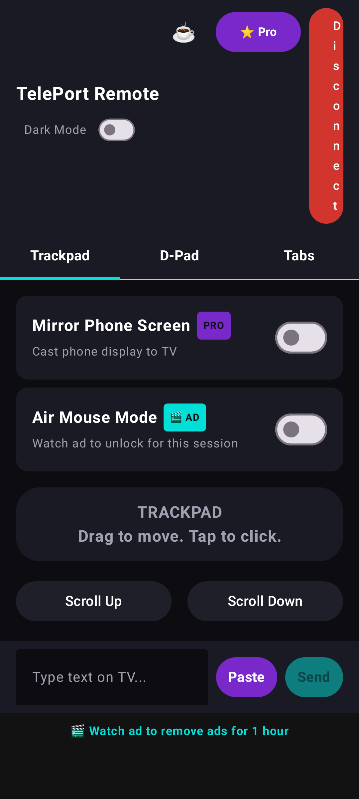
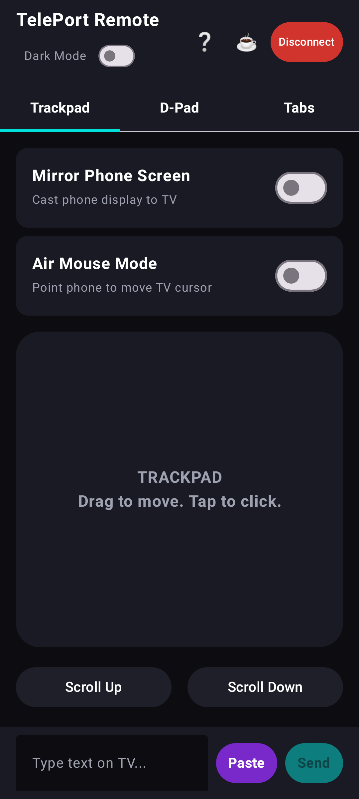
Marketing: ASO pass on the TelePort Play listing (POR-93) (#256)
* media(store): recapture Play Store screenshots, fix trackpad badges, add feature graphic (POR-176)

- Regenerate the live docs/screenshots/*.png set from current source: the
  checked-in trackpad shot was stale and still showed the PRO/AD/paywall UI,
  even though ENABLE_ADVERTISEMENTS and ENABLE_PAID_SUBSCRIPTIONS are both
  false in FeatureFlags.kt (free users get everything unlocked, no ads).
- Add docs/screenshots/play_store/: a captioned, ordered set (via the
  existing Robolectric ScreenshotEngine "store asset" tests) that leads with
  the browsing/remote-control experience instead of the bare QR pairing
  screen, which now closes out the sequence.
- Fix ScreenshotEngine.kt caption word-wrap: long descriptions were drawn as
  a single line and ran off the canvas edge (both the app test-source copy
  and the screenshot-framework template copy).
- Add scripts/generate_feature_graphic.py to compose the missing 1024x500
  Play Store feature graphic from assets/logo.png, since logo.png/banner.png
  are both 1024x1024 icon-shaped art and unusable in that slot as-is.

Draft only — not uploaded to Play Console. See docs/screenshots/play_store/README.md.

* marketing(store): sync approved Play listing copy to app-metadata.json (POR-93)

Title, short description, and full description reflect the ASO copy
approved via board approval 9e2177b7-dbf8-41fd-810f-187b0c07a246. Drops
the "no analytics" claim, which is inaccurate given Firebase
[…]

diff --git a/app/src/test/java/com/teleport/app/ExhaustiveScreenshotsTest.kt b/app/src/test/java/com/teleport/app/ExhaustiveScreenshotsTest.kt
@@ -223,8 +223,8 @@ class ExhaustiveScreenshotsTest {
             device = ScreenshotEngine.DeviceConfig.Tv,
             isDarkMode = true,
             decoration = ScreenshotEngine.DecorationConfig(
-                title = "Polished TV Pairing Dashboard",
-                description = "Scan the QR code or type the local URL to instantly pair your phone remote."
+                title = "Pair Once, Control Instantly",
+                description = "Scan the QR code or enter your TV's IP address to link your phone in seconds."
             )
         ) {
             TvPairingScreen(
@@ -268,8 +268,8 @@ class ExhaustiveScreenshotsTest {
             device = ScreenshotEngine.DeviceConfig.Phone,
             isDarkMode = true,
             decoration = ScreenshotEngine.DecorationConfig(
-                title = "Seamless Precision Trackpad",
-                description = "Control your Android TV cursor using standard swipe inputs or gyroscopic sensors."
+                title = "Trackpad & Air Mouse Remote",
+                description = "Swipe like a trackpad, or wave your phone like a laser pointer to move the TV cursor."
             )
         ) {
             ControllerScreen(
@@ -329,8 +329,8 @@ class ExhaustiveScreenshotsTest {
             device = ScreenshotEngine.DeviceConfig.Phone,
             isDarkMode = true,
             decoration = ScreenshotEngine.DecorationConfig(
-                title = "Cast Media Direct to TV",
-                description = "Launch search queries or cast detected video links to play in TV's video player."
+                title = "Browse Multiple Tabs on Your TV",
+                description = "Open tabs from your phone, switch between them, and cast videos straight to the big screen."
             )
         ) {
             TabsManagerTab(connectionManager, mockTvState)

diff --git a/app/src/test/java/com/teleport/app/ScreenshotEngine.kt b/app/src/test/java/com/teleport/app/ScreenshotEngine.kt
@@ -187,7 +187,14 @@ object ScreenshotEngine {
 
         val textYOffset = if (device.type == DeviceType.TV) 120f else 200f
         canvas.drawText(decoration.title, (canvasWidth / 2).toFloat(), textYOffset, titlePaint)
-        canvas.drawText(decoration.description, (canvasWidth / 2).toFloat(), textYOffset + (if (device.type == DeviceType.TV) 50f else 80f), descPaint)
+
+        // Wrap the description so it never runs off the edge of the canvas.
+        val descMaxWidth = canvasWidth - 160f
+        val descLineHeight = if (device.type == DeviceType.TV) 36f else 50f
+        val descStartY = textYOffset + (if (device.type == DeviceType.TV) 50f else 80f)
+        wrapText(decoration.description, descPaint, descMaxWidth).forEachIndexed { index, line ->
+            canvas.drawText(line, (canvasWidth / 2).toFloat(), descStartY + index * descLineHeight, descPaint)
+        }
 
         // Calculate device boundaries
         val frameRect = if (device.type == DeviceType.TV) {
@@ -226,6 +233,23 @@ object ScreenshotEngine {
         canvas.restore()
 
         return decorated
+    }
+
+    private fun wrapText(text: String, paint: Paint, maxWidth: Float): List<String> {
+        val words = text.split(" ")
+        val lines = mutableListOf<String>()
+        var current = StringBuilder()
+        for (word in words) {
+            val candidate = if (current.isEmpty()) word else "$current $word"
+            if (paint.measureText(candidate) <= maxWidth || current.isEmpty()) {
+                current = StringBuilder(candidate)
+            } else {
+                lines.add(current.toString())
+                current = StringBuilder(word)
+            }
+        }
+        if (current.isNotEmpty()) lines.add(current.toString())
+        return lines
     }
 }
 

diff --git a/screenshot-framework/ScreenshotEngine.kt b/screenshot-framework/ScreenshotEngine.kt
@@ -189,7 +189,14 @@ object ScreenshotEngine {
 
         val textYOffset = if (device.type == DeviceType.TV) 120f else 200f
         canvas.drawText(decoration.title, (canvasWidth / 2).toFloat(), textYOffset, titlePaint)
-        canvas.drawText(decoration.description, (canvasWidth / 2).toFloat(), textYOffset + (if (device.type == DeviceType.TV) 50f else 80f), descPaint)
+
+        // Wrap the description so it never runs off the edge of the canvas.
+        val descMaxWidth = canvasWidth - 160f
+        val descLineHeight = if (device.type == DeviceType.TV) 36f else 50f
+        val descStartY = textYOffset + (if (device.type == DeviceType.TV) 50f else 80f)
+        wrapText(decoration.description, descPaint, descMaxWidth).forEachIndexed { index, line ->
+            canvas.drawText(line, (canvasWidth / 2).toFloat(), descStartY + index * descLineHeight, descPaint)
+        }
 
         // Calculate device boundaries
         val frameRect = if (device.type == DeviceType.TV) {
@@ -228,6 +235,23 @@ object ScreenshotEngine {
         canvas.restore()
 
         return decorated
+    }
+
+    private fun wrapText(text: String, paint: Paint, maxWidth: Float): List<String> {
+        val words = text.split(" ")
+        val lines = mutableListOf<String>()
+        var current = StringBuilder()
+        for (word in words) {
+            val candidate = if (current.isEmpty()) word else "$current $word"
+            if (paint.measureText(candidate) <= maxWidth || current.isEmpty()) {
+                current = StringBuilder(candidate)
+            } else {
+                lines.add(current.toString())
+                current = StringBuilder(word)
+            }
+        }
+        if (current.isNotEmpty()) lines.add(current.toString())
+        return lines
     }
 }
 

diff --git a/scripts/generate_feature_graphic.py b/scripts/generate_feature_graphic.py
@@ -1,0 +1,133 @@
+#!/usr/bin/env python3
+"""Compose the Google Play feature graphic (1024x500) from the existing brand assets.
+
+Google Play requires an exact 1024x500 JPG/PNG "feature graphic" for the store
+listing header. assets/logo.png and assets/banner.png are both 1024x1024
+icon-shaped art, so neither is usable as-is; this script builds a native
+2.048:1 graphic using the app icon from logo.png and the brand palette / copy
+sampled from banner.png.
+"""
+import os
+import sys
+
+def check_pillow():
+    try:
+        from PIL import Image, ImageDraw, ImageFont, ImageFilter
+        return Image, ImageDraw, ImageFont, ImageFilter
+    except ImportError:
+        print("Pillow library is not installed. Installing it via pip...")
+        import subprocess
+        subprocess.check_call([sys.executable, "-m", "pip", "install", "Pillow"])
+        from PIL import Image, ImageDraw, ImageFont, ImageFilter
+        return Image, ImageDraw, ImageFont, ImageFilter
+
+FEATURE_WIDTH = 1024
+FEATURE_HEIGHT = 500
+
+# Brand palette sampled from assets/banner.png / the in-app ThemeTokens dark theme.
+BG_TOP = (13, 15, 22)
+BG_BOTTOM = (24, 18, 40)
+GLOW_CYAN = (0, 223, 216)
+GLOW_PURPLE = (124, 58, 237)
+TEXT_MAIN = (255, 255, 255)
+TEXT_SUB = (158, 162, 176)
+
+FONT_BOLD = "/System/Library/Fonts/Supplemental/Arial Bold.ttf"
+FONT_REGULAR = "/System/Library/Fonts/Supplemental/Arial.ttf"
+
+
+def build_background(Image, ImageDraw, ImageFilter):
+    bg = Image.new("RGB", (FEATURE_WIDTH, FEATURE_HEIGHT))
+    pixels = bg.load()
+    for y in range(FEATURE_HEIGHT):
+        t = y / FEATURE_HEIGHT
+        r = int(BG_TOP[0] + (BG_BOTTOM[0] - BG_TOP[0]) * t)
+        g = int(BG_TOP[1] + (BG_BOTTOM[1] - BG_TOP[1]) * t)
+        b = int(BG_TOP[2] + (BG_BOTTOM[2] - BG_TOP[2]) * t)
+        for x in range(FEATURE_WIDTH):
+            pixels[x, y] = (r, g, b)
+
+    glow_layer = Image.new("RGB", (FEATURE_WIDTH, FEATURE_HEIGHT), (0, 0, 0))
+    glow_draw = ImageDraw.Draw(glow_layer)
+    glow_draw.ellipse((-200, -260, 620, 460), fill=GLOW_PURPLE)
+    glow_draw.ellipse((600, 40, 1300, 620), fill=GLOW_CYAN)
+    glow_layer = glow_layer.filter(ImageFilter.GaussianBlur(140))
+
+    return Image.blend(bg, glow_layer, alpha=0.35)
+
+
+def paste_logo(Image, ImageDraw, ImageFilter, canvas, logo_path):
+    logo = Image.open(logo_path).convert("RGBA")
+    size = 360
+    logo = logo.resize((size, size), Image.Resampling.LANCZOS)
+
+    # logo.png's flat corner background shows up as a hard box against the
+    # gradient backdrop, so feather a soft rounded mask over the icon glyph
+    # (which only occupies the center of the source image) to blend it in.
+    mask = Image.new("L", (size, size), 0)
+    mask_draw = ImageDraw.Draw(mask)
+    inset = int(size * 0.05)
+    mask_draw.rounded_rectangle(
+        [inset, inset, size - inset, size - inset],
+        radius=int(size * 0.22),
+        fill=255,
+    )
+    mask = mask.filter(ImageFilter.GaussianBlur(size * 0.04))
+    logo.putalpha(mask)
+
+    x = 70
+    y = (FEATURE_HEIGHT - size) // 2
+    canvas.paste(logo, (x, y), logo)
+    return x + size
+
+
+def fit_text(ImageFont, draw, text, font_path, start_size, max_width, min_size=18):
+    size = start_size
+    while size > min_size:
+        font = ImageFont.truetype(font_path, size)
+        if draw.textlength(text, font=font) <= max_width:
+            return font
+        size -= 2
+    return ImageFont.truetype(font_path, min_size)
+
+
+def draw_copy(Image, ImageDraw, ImageFont, canvas, text_left):
+    draw = ImageDraw.Draw(canvas)
+    max_width = FEATURE_WIDTH - text_left - 50 - 40
+
+    title_font = ImageFont.truetype(FONT_BOLD, 92)
+    tagline_font = fit_text(ImageFont, draw, "TV Browser & Mobile Remote", FONT_BOLD, 34, max_width)
+    benefit_font = fit_text(ImageFont, draw, "No cables. No extra remote.", FONT_REGULAR, 32, max_width)
+
+    text_x = text_left + 50
+    title_y = 168
+    draw.text((text_x, title_y), "TelePort", font=title_font, fill=TEXT_MAIN)
+    draw.text((text_x, title_y + 108), "TV Browser & Mobile Remote", font=tagline_font, fill=GLOW_CYAN)
+    draw.text((text_x, title_y + 156), "No cables. No extra remote.", font=benefit_font, fill=TEXT_SUB)
+
+
+def main():
+    Image, ImageDraw, ImageFont, ImageFilter = check_pillow()
+
+    project_root = os.path.dirname(os.path.dirname(os.path.abspath(__file__)))
+    logo_path = os.path.join(project_root, "assets", "logo.png")
+
+    if not os.path.exists(logo_path):
+        print(f"Error: Base logo file not found at {logo_path}")
+        sys.exit(1)
+
+    canvas = build_background(Image, ImageDraw, ImageFilter)
+    logo_right_edge = paste_logo(Image, ImageDraw, ImageFilter, canvas, logo_path)
+    draw_copy(Image, ImageDraw, ImageFont, canvas, logo_right_edge)
+
+    assert canvas.size == (FEATURE_WIDTH, FEATURE_HEIGHT)
+
+    out_dir = os.path.join(project_root, "docs", "screenshots", "play_store")
+    os.makedirs(out_dir, exist_ok=True)
+    out_path = os.path.join(out_dir, "feature_graphic_1024x500.png")
+    canvas.save(out_path, "PNG")
+    print(f"Saved feature graphic: {out_path} ({canvas.size[0]}x{canvas.size[1]})")
+
+
+if __name__ == "__main__":
+    main()

diff --git a/docs/screenshots/play_store/README.md b/docs/screenshots/play_store/README.md
@@ -1,0 +1,49 @@
+# Play Store screenshot set — draft (POR-176)
+
+Recaptured from the real app UI via the existing Robolectric screenshot pipeline
+(`./gradlew :app:testDebugUnitTest --tests com.teleport.app.ExhaustiveScreenshotsTest`,
+Option B "store asset" tests in `app/src/test/java/com/teleport/app/ExhaustiveScreenshotsTest.kt`).
+Every pixel is a real render of shipped Compose UI; only the title/description
+caption band and device bezel around it are drawn on top by `ScreenshotEngine.decorate()`.
+
+Recommended Play Console upload order:
+
+| # | File | Shows | Why here |
+|---|------|-------|----------|
+| 1 | `01_browse_multiple_tabs.png` | Phone remote's Tabs screen, two real open tabs | Leads with the core "browse the web on your TV" value prop, matches searches like "cast tabs to TV" |
+| 2 | `02_trackpad_air_mouse.png` | Phone remote's Trackpad screen, clean free/unlocked state | Shows the cursor-control interaction; matches "TV remote from phone" |
+| 3 | `03_tv_native_casting.png` | TV-side native video resolver/player | Proves the TV side of the experience, not just the phone |
+| 4 | `04_dpad_keyboard_control.png` | Phone remote's D-Pad screen | Rounds out the control surface (menus, text entry) |
+| 5 | `05_pairing_setup.png` | TV pairing/QR dashboard | Setup is reassuring, not the hook — moved from lead to last |
+| — | `feature_graphic_1024x500.png` | Logo + wordmark on brand gradient | Play Console "Feature graphic" slot (exact 1024x500) |
+
+## What changed from the previous live set (`docs/screenshots/*.png`)
+
+- The old lead image was the bare QR pairing screen. It's now last in the
+  recommended order, and 1–4 above lead with the actual product instead.
+- `mobile_controller_trackpad.png` showed a "Mirror Phone Screen — PRO" badge,
+  an "AD" badge on Air Mouse Mode, and "Watch ad to remove ads for 1 hour".
+  `ENABLE_ADVERTISEMENTS` and `ENABLE_PAID_SUBSCRIPTIONS` are both `false` in
+  `FeatureFlags.kt`, so the shipping app never shows any of that — the
+  checked-in screenshot was simply stale. Regenerating from current source
+  (`docs/screenshots/mobile_controller_trackpad.png`, and `02_trackpad_air_mouse.png`
+  here) reproduces the real free/unlocked UI with no ads or paywall visible.
+- `screenshot-framework/ScreenshotEngine.kt` (and its copy in
+  `app/src/test/java/com/teleport/app/ScreenshotEngine.kt`) had a caption bug:
+  long descriptions were drawn as a single centered line and ran off the edge
+  of the canvas. Added word-wrapping so captions never clip.
+- No 1024x500 feature graphic existed in the repo. `assets/logo.png` and
+  `assets/banner.png` are both 1024x1024 icon-shaped art, not usable directly
+  in the feature-graphic slot. `scripts/generate_feature_graphic.py` composes
+  a native 1024x500 graphic from the app icon (`assets/logo.png`) and the
+  brand palette/copy, feathering the icon's square edges so it blends into
+  the gradient instead of showing a hard box.
+
+## Not done here
+
+This is a draft for board approval. Nothing has been uploaded to Play
+Console — release-platform / Play Console credentials are not available to
+agents. `docs/screenshots/*.png` (the flat, undecorated root set) has also
+been refreshed in place from the same regeneration run, since it's the set
+the ticket flagged directly, but the captioned/ordered set in this folder is
+the one recommended for the actual listing.
